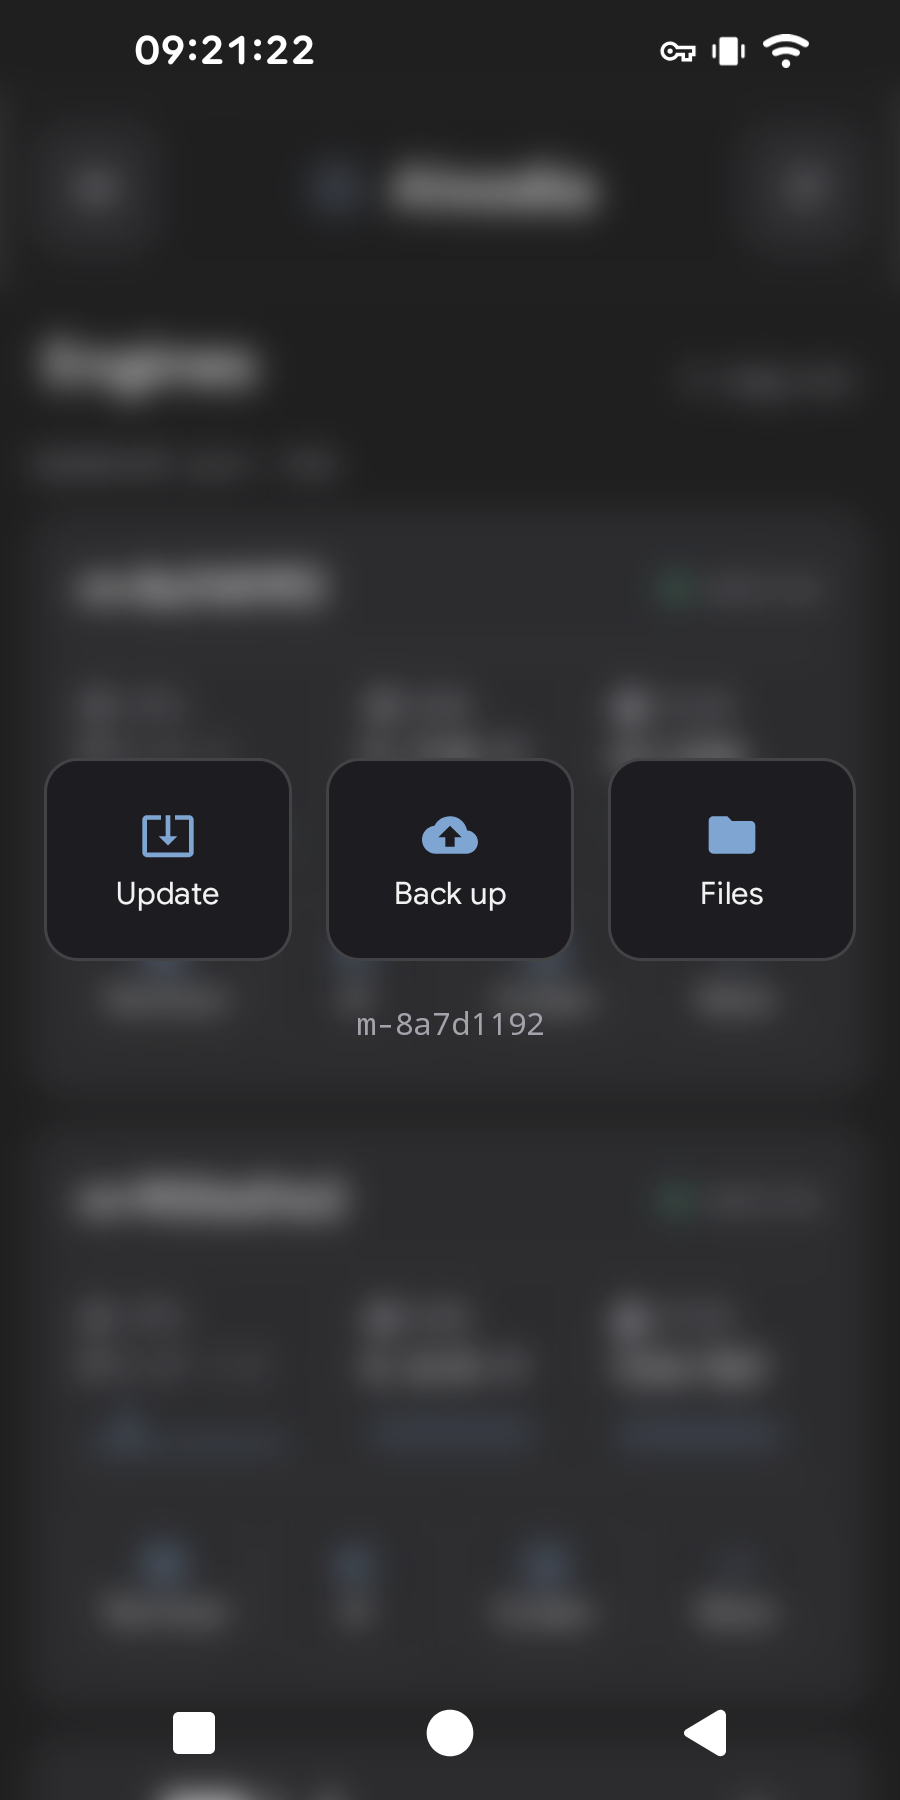
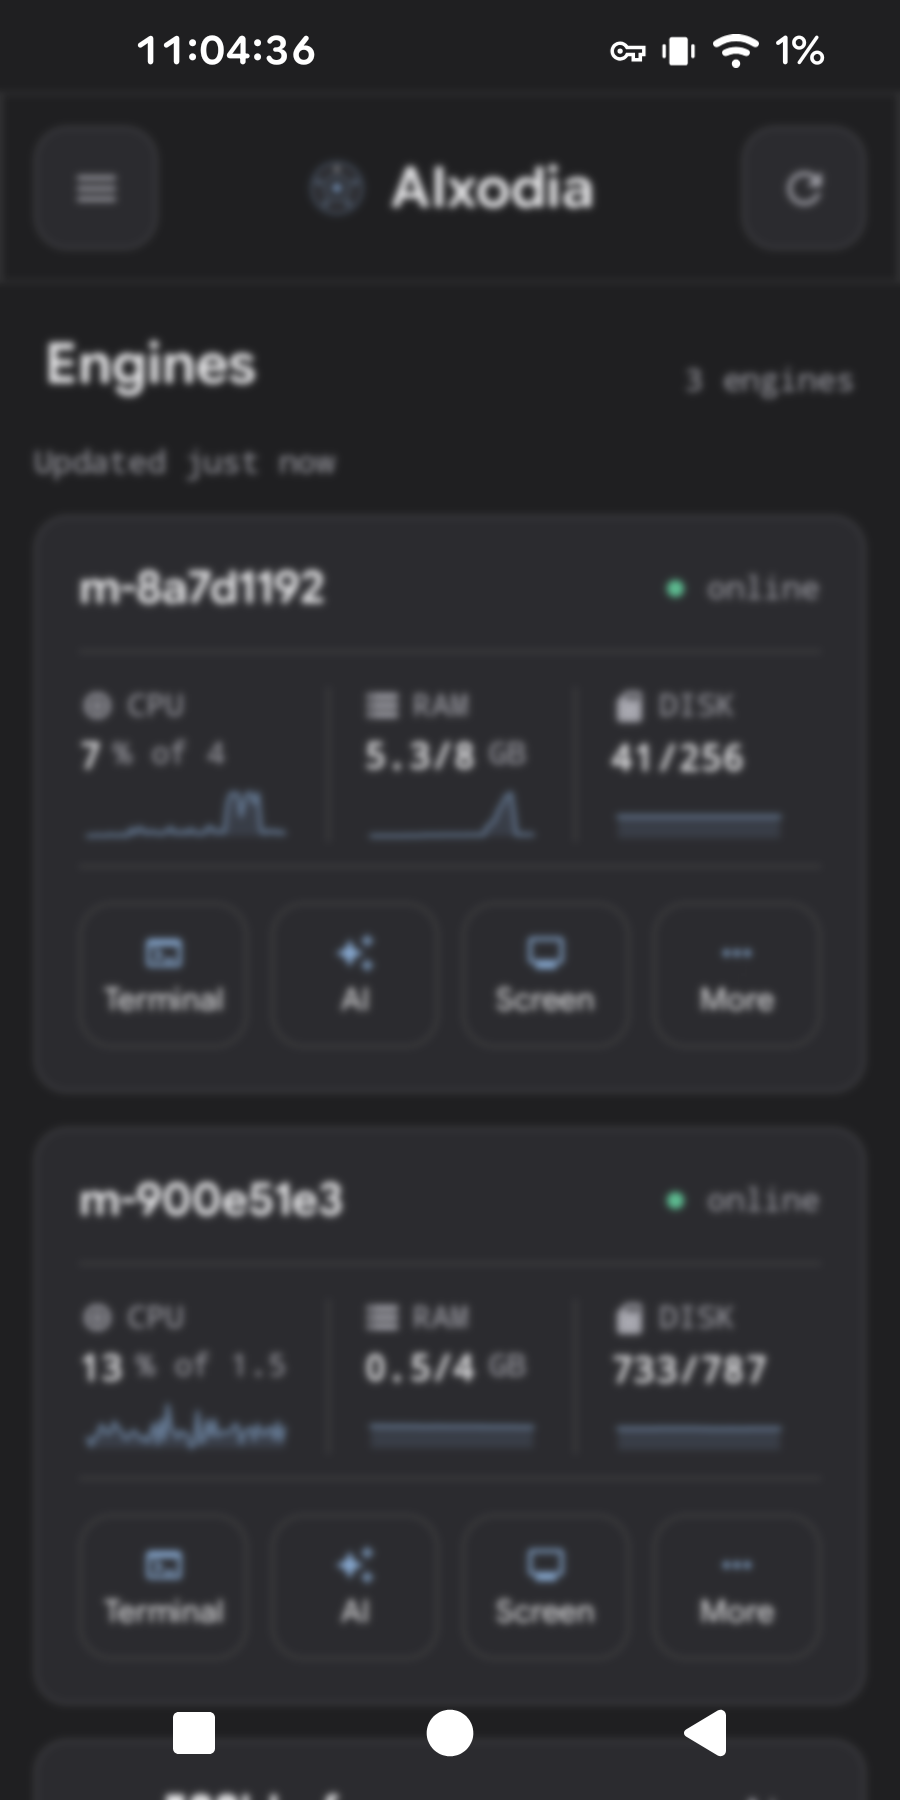
engines: the menu does not make the page blink every two seconds
Three separate things were moving under the menu, and only one of them was
  the animation.

  - The graphs are sampled every 2 s, and each sample re-rendered the layer the
    blur is applied to: the page visibly re-blurred every two seconds. Measured
    with the menu open and idle, the largest frame-to-frame change over six
    seconds was 6.97 before this and is 0.085 after. The timer now stands down
    while the menu is up — what is behind the blur is being decided about, not
    watched — and starts again the moment it closes.

  - The blur used to appear when the enter animation *finished*, so the page
    receded in a second, separate event after the tiles had landed. It is
    switched at `targetState` now: the page recedes at the same instant the veil
    arrives, and afterwards only the tiles move.

  - The veil no longer fades. A full-screen alpha that changes has to be redrawn
    whole every frame, and measured frame times on the phone are 250 ms for a
    plain list swipe and 650 ms for the menu — the page is what is expensive,
    not the blur. A veil that is simply on leaves nothing to redraw but three
    small tiles.

  Note: the phone doing the measuring is at 1% battery and 41 °C, and the swipe
  baseline above says the instrument is throttled, so those frame times are a
  ceiling, not a verdict. The periodic blink is gone in pixels; whether the
  remaining 200 ms tile animation reads as smooth needs a charged phone.

diff --git a/app/src/main/kotlin/com/tulipskun/aixodia/ui/engines/EngineMenu.kt b/app/src/main/kotlin/com/tulipskun/aixodia/ui/engines/EngineMenu.kt
@@ -2,7 +2,6 @@ package com.tulipskun.aixodia.ui.engines
 
 import androidx.compose.animation.AnimatedVisibility
 import androidx.compose.animation.core.MutableTransitionState
-import androidx.compose.animation.core.animateFloatAsState
 import androidx.compose.animation.core.tween
 import androidx.compose.animation.fadeIn
 import androidx.compose.animation.fadeOut
@@ -31,7 +30,6 @@ import androidx.compose.material3.Icon
 import androidx.compose.material3.MaterialTheme
 import androidx.compose.material3.Text
 import androidx.compose.runtime.Composable
-import androidx.compose.runtime.getValue
 import androidx.compose.runtime.remember
 import androidx.compose.ui.Alignment
 import androidx.compose.ui.Modifier
@@ -58,8 +56,7 @@ internal const val BACKUP = "backup"
 private val Veil = Color(0xFFC6CBD4)
 private const val VEIL_ALPHA = 0.13f
 
-/** How long the veil and the tiles take to arrive, and the tiles to leave. */
-private const val VEIL_MS = 180
+/** How long the tiles take to arrive, and to leave. */
 private const val ENTER_MS = 200
 private const val EXIT_MS = 140
 
@@ -94,14 +91,12 @@ internal fun EngineActions(
     onDismiss: () -> Unit,
 ) {
     val idle = working.isEmpty()
-    // The veil arrives with the tiles rather than under them: a screen that
-    // dims first and grows buttons afterwards reads in two steps, and this is
-    // one gesture.
-    val veil by animateFloatAsState(
-        targetValue = if (open.targetState) 1f else 0f,
-        animationSpec = tween(VEIL_MS),
-        label = "veil",
-    )
+    // The veil is not faded in, and that is a measurement rather than a taste:
+    // a full-screen alpha that changes has to be redrawn whole every frame, and
+    // each of those frames measured 250–600 ms on this phone (a swipe of the
+    // list measures the same, so the page is what is expensive, not the blur).
+    // A veil that is simply on, with only the tiles moving, leaves nothing on
+    // the screen to redraw but three small tiles.
     Box(Modifier.fillMaxSize()) {
         // Tapping the veil dismisses; it must not also reach the card under it.
         Box(
@@ -112,7 +107,10 @@ internal fun EngineActions(
                 // the blurred shapes to where the eye can see them as shapes while
                 // no text becomes readable again — and it is grey, not white, so
                 // the page stays the same colour it was, one step lighter.
-                .background(Veil.copy(alpha = VEIL_ALPHA * veil))
+                .background(
+                    if (open.targetState) Veil.copy(alpha = VEIL_ALPHA)
+                    else Color.Transparent,
+                )
                 .clickable(
                     interactionSource = remember { MutableInteractionSource() },
                     indication = null,

diff --git a/app/src/main/kotlin/com/tulipskun/aixodia/ui/engines/EnginesScreen.kt b/app/src/main/kotlin/com/tulipskun/aixodia/ui/engines/EnginesScreen.kt
@@ -160,10 +160,17 @@ fun EnginesScreen(
     // reports up are asked, so a card whose light is off does not spend every
     // sample waiting out a timeout, and the timer only runs while the screen is
     // the one being looked at: a phone in a pocket has no cards to keep current.
+    // A card is not the only thing that changes under this blur: the graphs are
+    // sampled every two seconds, and every sample re-renders the layer the blur
+    // is applied to — which on this phone means the whole page visibly re-blurs
+    // every two seconds. So the timer stands down while the menu is up. What is
+    // behind the blur is being decided about, not watched, and it is sampled
+    // again the moment the menu closes.
     val lifecycle = LocalLifecycleOwner.current
-    LaunchedEffect(engines, snapshot.value.engines) {
+    LaunchedEffect(engines, snapshot.value.engines, menuOpen.targetState) {
         val listed = snapshot.value.engines
         if (listed.isEmpty()) return@LaunchedEffect
+        if (menuOpen.targetState) return@LaunchedEffect
         lifecycle.repeatOnLifecycle(Lifecycle.State.RESUMED) {
             while (true) {
                 for (engine in listed) {
@@ -182,13 +189,17 @@ fun EnginesScreen(
     //
     // The blur is switched, not eased: a full-screen blur whose radius moves has
     // to be recomputed every frame, and on a phone with no GPU that recompute
-    // costs more than the motion is worth — measured at ~3 frames a second. The
-    // veil and the tiles are what the eye reads as arriving; the page behind them
-    // may change in the frame the menu opens.
+    // costs more than the motion is worth — measured at ~3 frames a second.
+    //
+    // It is switched at the *start* of the animation (`targetState`), not at the
+    // end (`currentState`): switching it late makes the page recede in a second,
+    // separate event after the tiles have already landed, which reads as a
+    // flash. Switched at once, the page recedes while the veil is arriving and
+    // the only thing that moves afterwards is the veil and the tiles.
     Box(Modifier.fillMaxSize()) {
     Box(
         Modifier.fillMaxSize().then(
-            if (menuOpen.currentState) Modifier.blur(BLUR_DP.dp) else Modifier,
+            if (menuOpen.targetState) Modifier.blur(BLUR_DP.dp) else Modifier,
         ),
     ) {
     ModalNavigationDrawer(
